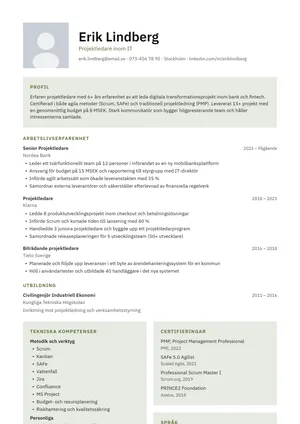
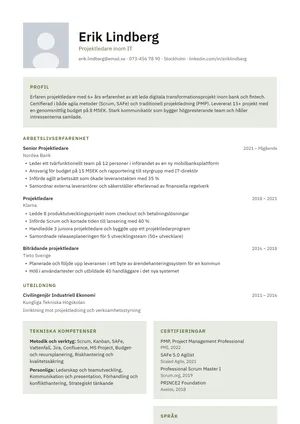
fix(mallar): Loft och Kakel efter granskningsvarv 1
Loft: fotot hänger ned i luften under huvudet (nytt fält hanger i
MallFoto, i Word förankrat i huvudtabellens cell), så att Kompetenser
står på sida 1 i NORMALT_CV med foto. Luften 7 / 8 / 4,5 mm oförändrad.

Kakel: kompetenserna som grupper i rutan, rutnätet som tabell med en rad
per rutrad (Kompetenser och Certifieringar, Intressen och Språk) som bara
bryts mellan raderna; intygen i rutan något tätare så att rad 1 ryms på
sida 1. Avvikelserna uppdaterade, Kakels kända begränsning struken.

Changed region(s): [[0.06, 0.7665, 0.93, 1.0], [0.63, 0.7665, 0.66, 0.7972]]

diff --git a/src/lib/cv/mallar/render/html.ts b/src/lib/cv/mallar/render/html.ts
@@ -351,7 +351,7 @@ function avsnitt(a: Avsnitt, c: Ctx, iSpalt: boolean): string {
   const spok = Boolean(c.opt.spok?.sektioner.includes(a.sektion))
   const l = c.def.layout
   const prick = !iSpalt && l.typ === 'marginalprick' && l.sektioner.includes(a.sektion) && a.innehall.typ === 'poster'
-  const ruta = !iSpalt && Boolean(c.def.rutor && [...c.def.rutor.ruta, ...c.def.rutor.rutnat].includes(a.sektion))
+  const ruta = !iSpalt && Boolean(c.def.rutor && [...c.def.rutor.ruta, ...c.def.rutor.rutnat.flat()].includes(a.sektion))
   const klass = `avsnitt avsnitt-${a.sektion} typ-${a.innehall.typ}${intygsfalt ? ' intygsfalt' : ''}${prick ? ' tidslinje' : ''}${ruta ? ' ruta' : ''}${spok ? ' spok' : ''}`
   const rad =
     spok && a.sektion === 'profil' && c.opt.spok?.profilRad
@@ -568,6 +568,11 @@ ${
 .huvud.foto-huvud-topp-vanster{flex-direction:column;align-items:flex-start;gap:${def.foto?.luft ?? 5}mm}
 .foto-tom{display:flex;align-items:center;justify-content:center;font-family:var(--typsnitt-rubrik);font-size:${Math.round(fotoMm * 1.1)}pt;color:var(--accent)}`)
   if (def.foto?.luft !== undefined && fotoPlats !== 'huvud-topp-vanster' && fotoPlats !== 'sidospalt-topp') ut.push(`.huvud.med-foto{gap:${def.foto.luft}mm}`)
+  if (def.foto?.hanger && fotoPlats === 'huvud-hoger') {
+    // Fotot bidrar inte till huvudets höjd; texten är minst så hög att fotot slutar 2 mm ovanför första avsnittet.
+    ut.push(`.foto-huvud-hoger.med-foto .foto{margin-bottom:-${m.fotoHojdMm}mm}
+.foto-huvud-hoger.med-foto .huvud-text{min-height:${Math.max(0, m.fotoHojdMm - m.luftUnderHuvud + 2).toFixed(2)}mm}`)
+  }
   if (fotoPlats === 'sidospalt-topp') {
     ut.push(`.spalt-sido>.foto.foto{margin:0 ${def.foto?.justering === 'centrerad' ? 'auto' : '0'} 5mm}`)
   }
@@ -799,8 +804,9 @@ ${s.linje ? `.spalt-sido{border-${s.sida === 'vanster' ? 'right' : 'left'}:${lin
     const ru = def.rutor
     ut.push(`.ruta{background:${f(ru.bakgrund, p.ton)};padding:${ru.luft}mm;break-inside:avoid}
 .ruta .start{break-inside:avoid}
-.rutnat{display:flex;gap:${ru.mellanrum}mm;margin-top:${m.luftOver}mm;align-items:flex-start}
-.rutnat>div{flex:1;min-width:0;display:flex;flex-direction:column;gap:${ru.mellanrum}mm}
+.rutnat{width:calc(100% + ${2 * ru.mellanrum}mm);margin:${(m.luftOver - ru.mellanrum).toFixed(2)}mm -${ru.mellanrum}mm -${ru.mellanrum}mm;border-collapse:separate;border-spacing:${ru.mellanrum}mm;table-layout:fixed}
+.rutnat td{width:50%;vertical-align:top;padding:0}
+.rutnat tr{break-inside:avoid}
 .rutnat .avsnitt{margin-top:0}
 .rutnat .ruta{break-inside:avoid}`)
   }
@@ -860,11 +866,17 @@ export function renderDokumentHtml(dok: Dokument, def: MallDef, val: MallVal = {
   // Rutnätet (Kakel): avsnitten i rutnätet samlas där det första av dem står,
   // det första i vänster spalt och resten staplade i höger.
   if (def.rutor) {
-    const iNat = dok.huvudspalt.map((a) => def.rutor!.rutnat.includes(a.sektion))
+    const iRutnat = def.rutor.rutnat.flat()
+    const iNat = dok.huvudspalt.map((a) => iRutnat.includes(a.sektion))
     const forsta = iNat.indexOf(true)
     if (forsta >= 0) {
-      const nat = delar.filter((_, i) => iNat[i])
-      const rutnat = `<div class="rutnat"><div>${nat[0]}</div>${nat.length > 1 ? `<div>${nat.slice(1).join('')}</div>` : '<div></div>'}</div>`
+      // En tabellrad per rutrad: Chrome bryter sidan mellan raderna, aldrig inuti en ruta.
+      const per = new Map(dok.huvudspalt.map((a, i) => [a.sektion as string, delar[i]]))
+      const rader = def.rutor.rutnat
+        .map(([v, h]) => [per.get(v) ?? '', per.get(h) ?? ''])
+        .filter(([v, h]) => v || h)
+        .map(([v, h]) => `<tr><td>${v}</td><td>${h}</td></tr>`)
+      const rutnat = `<table class="rutnat" role="presentation"><tbody>${rader.join('')}</tbody></table>`
       const nya: string[] = []
       const nyaS: string[] = []
       delar.forEach((d, i) => {

diff --git a/src/lib/cv/word/bygg.ts b/src/lib/cv/word/bygg.ts
@@ -1181,12 +1181,31 @@ function huvudInnehall(dok: Dokument, b: B, bredd: number, textFarg?: string): (
     const text = tabellCell(huvudStycken(dok, b, AlignmentType.LEFT, textFarg, medKontakt, false), bredd - fb, {
       verticalAlign: vanster ? VerticalAlign.CENTER : VerticalAlign.TOP,
     })
+    // Fotot som hänger ned i luften under huvudet (Loft) är förankrat i cellen och
+    // räknas inte in i radens höjd; raden är minst så hög att fotot slutar 2 mm ovanför första avsnittet.
+    const hanger = foto.hanger && foto.plats === 'huvud-hoger'
+    const bildRun = hanger
+      ? new ImageRun({
+          type: 'png',
+          data: b.foto!,
+          transformation: { width: px(b.m.fotoMm), height: px(b.m.fotoHojdMm) },
+          altText: { name: 'Foto', description: 'Foto', title: 'Foto' },
+          floating: {
+            horizontalPosition: { relative: HorizontalPositionRelativeFrom.COLUMN, offset: Math.round((fb / TWIP_PER_MM - b.m.fotoMm) * 36000) },
+            verticalPosition: { relative: VerticalPositionRelativeFrom.PARAGRAPH, offset: 0 },
+            wrap: { type: TextWrappingType.NONE },
+            allowOverlap: true,
+            layoutInCell: true,
+          },
+        })
+      : bild(b)
     const bildCell = tabellCell(
-      [stycke({ alignment: vanster ? AlignmentType.LEFT : AlignmentType.RIGHT, keepNext: !b.huvudITabell, spacing: { after: 0, line: 240 }, children: [bild(b)] })],
+      [stycke({ alignment: vanster ? AlignmentType.LEFT : AlignmentType.RIGHT, keepNext: !b.huvudITabell, spacing: { after: 0, line: 240 }, children: [bildRun] })],
       fb,
       { verticalAlign: h.form === 'band' ? VerticalAlign.CENTER : VerticalAlign.TOP }
     )
-    return [tabell([new TableRow({ cantSplit: true, children: vanster ? [bildCell, text] : [text, bildCell] })], vanster ? [fb, bredd - fb] : [bredd - fb, fb])]
+    const minHojd = hanger ? { height: { value: mm(Math.max(0, b.m.fotoHojdMm - b.m.luftUnderHuvud + 2)), rule: 'atLeast' as const } } : {}
+    return [tabell([new TableRow({ cantSplit: true, ...minHojd, children: vanster ? [bildCell, text] : [text, bildCell] })], vanster ? [fb, bredd - fb] : [bredd - fb, fb])]
   }
   return huvudStycken(dok, b, just, textFarg, medKontakt, Boolean(foto && foto.plats === 'huvud-topp'))
 }

diff --git a/src/lib/cv/mallar/typer.ts b/src/lib/cv/mallar/typer.ts
@@ -322,6 +322,12 @@ export interface MallFoto {
   justering?: 'vanster' | 'centrerad'
   /** Luft mellan fotot och texten, mm. Förval 7 i PDF:en. */
   luft?: number
+  /**
+   * Fotot (huvud-hoger) räknas inte in i huvudets höjd: luften under huvudet
+   * mäts från texten och fotot får hänga ned i den, högst till 2 mm ovanför
+   * första avsnittet (Loft, granskningsvarv 1).
+   */
+  hanger?: boolean
   /** Fotot på från början när CV:t har ett foto. */
   forval: boolean
 }
@@ -385,10 +391,10 @@ export interface MallDef {
   sockel?: { hojd: number; bakgrund: Farg; text: Farg; luft: { lodratt: number; sidor: number }; sektioner: Sektion[] }
   /**
    * Tonade rutor (Kakel, bara PDF): `ruta` är avsnitten i egen ruta i full
-   * bredd, `rutnat` avsnitten i ett rutnät i två spalter (första i vänster
-   * spalt, resten staplade i höger) där det första av dem står.
+   * bredd, `rutnat` rutnätets rader, varje rad [vänster, höger]. Rutnätet
+   * står där dess första avsnitt står och bryts bara mellan raderna.
    */
-  rutor?: { ruta: Sektion[]; rutnat: Sektion[]; bakgrund: Farg; luft: number; mellanrum: number }
+  rutor?: { ruta: Sektion[]; rutnat: [Sektion, Sektion][]; bakgrund: Farg; luft: number; mellanrum: number }
   /** Egen CSS efter mallens, bara när word är falskt. */
   extraCss?: string
 }

diff --git a/src/lib/cv/mallar/definitioner/kakel.ts b/src/lib/cv/mallar/definitioner/kakel.ts
@@ -23,12 +23,16 @@ export const kakel: MallDef = {
   layout: { typ: 'enspalt' },
   post: { arbetsgivare: { farg: '#555555' }, luftMellan: 3.8 },
   punkt: PUNKT,
-  kompetenser: 'lista',
+  // Kompetenserna i rutan som grupper (granskningsvarv 1); intyg och språk som listor.
+  kompetenser: 'grupp',
   intyg: 'lista',
   sprak: 'lista',
   foto: { form: 'kvadrat', storlek: 32, plats: 'huvud-vanster', luft: 7, forval: true },
   ordning: STANDARD_ORDNING,
   enSida: EN_SIDA,
-  rutor: { ruta: ['profil'], rutnat: ['kompetenser', 'intyg', 'sprak'], bakgrund: 'ton', luft: 5, mellanrum: 5 },
-  extraCss: `.posttitel{font-weight:600}`,
+  rutor: { ruta: ['profil'], rutnat: [['kompetenser', 'intyg'], ['intressen', 'sprak']], bakgrund: 'ton', luft: 5, mellanrum: 5 },
+  // Intygen i rutan tätare (radavstånd 1,3 och 1 mm mellan), så att första rutraden ryms på sida 1 (granskningsvarv 1).
+  extraCss: `.posttitel{font-weight:600}
+.ruta .intyglista li+li{margin-top:1mm}
+.ruta .intyglista li{line-height:1.3}`,
 }

diff --git a/src/lib/cv/mallar/definitioner/loft.ts b/src/lib/cv/mallar/definitioner/loft.ts
@@ -26,7 +26,7 @@ export const loft: MallDef = {
   kompetenser: 'grupp',
   intyg: 'rad',
   sprak: 'rad',
-  foto: { form: 'rund', storlek: 32, plats: 'huvud-hoger', luft: 8, forval: true },
+  foto: { form: 'rund', storlek: 32, plats: 'huvud-hoger', luft: 8, hanger: true, forval: true },
   ordning: STANDARD_ORDNING,
   enSida: EN_SIDA,
 }

diff --git a/docs/qa/mallar-2-avvikelser.md b/docs/qa/mallar-2-avvikelser.md
@@ -13,6 +13,11 @@ Bygget av mallarna 21 till 40 (docs/design/mallar-utbud-2-2026-11-16.md) följer
 | Not (32) | Kortet "Kompakt, tre sidor på två" | "Kompakt, rymmer mer" | Samma fyraordsgräns. |
 | Ek (34) | Kortet "Spalt med linje, stort foto" | "Spaltlinje och stort foto" | Samma fyraordsgräns. |
 
+## Rättelser efter granskningsvarv 1 (docs/qa/mallar-2-granskning-varv1.md)
+
+- **Loft: fotot hänger ned i luften under huvudet.** Kompetenser stod på sida 2 i NORMALT_CV med foto fast avsnittet nästan rymdes: det saknades 0,7 mm. Slutgruppen var inte orsaken (den är redan certifieringar, språk och referenser); orsaken var att det 32 mm höga fotot gjorde huvudet 4 mm högre än texten. Luften under huvudet (8 mm) mäts nu från texten och fotot får hänga ned i den, som mest till 2 mm ovanför Profil (nytt fält `hanger` i MallFoto). Word gör samma sak med fotot förankrat i huvudtabellens cell och radens minsta höjd. Luften 7 / 8 / 4,5 mm är oförändrad. Kompetenser står nu på sida 1 med och utan foto, Word följer PDF:en.
+- **Kakel: kompetenserna som grupper och rutnätet i rader.** Kompetensrutan har formen grupp (certifieringar och språk behåller lista). Rutnätet är en tabell utan kanter med en rad per rutrad (rad 1 Kompetenser och Certifieringar, rad 2 Intressen och Språk) och bryts bara mellan raderna. För att rad 1 ska rymmas på sida 1 i NORMALT_CV med foto behövdes 3 mm till: intygen i rutan har radavstånd 1,3 (mallen i övrigt 1,4) och 1 mm mellan intygen i stället för 1,5. Rad 1 slutar nu 1,5 mm ovanför bottenmarginalen.
+
 ## Teknik i Word
 
 - **Remsan i Skylt står före namnet i Word-filen.** Remsan är en tabellrad överst på sidan och bär kontakten, så kontaktraden är dokumentets första text och namnet (Rubrik 1) det första stycket efter den. Det finns inget sätt att lägga namnet först i dokumentordningen utan absolut placering. Testet word-mallar.test.ts godtar det för huvudformen remsa; ATS-kontrollen (namnet inom de första 700 tecknen) är grön.
@@ -31,5 +36,4 @@ Bygget av mallarna 21 till 40 (docs/design/mallar-utbud-2-2026-11-16.md) följer
 ## Kända begränsningar
 
 - I Sand och Ek fortsätter panelen respektive linjen på sida 2 i Word när innehållet går över två sidor, som Kalkstens panel i dag (Word lägger radens minsta höjd också på fortsättningen). I PDF:en slutar de med innehållet.
-- Kakels rutnät flyttas helt till sida 2 när det inte ryms, enligt specen; sida 1 kan då få luft i botten.
 - Sockel, Ramverk och Kant ritar sockeln, ramen och remsan som fasta element. I förhandsvisningen hamnar de mot fönstrets kant, i filen på varje sida.
